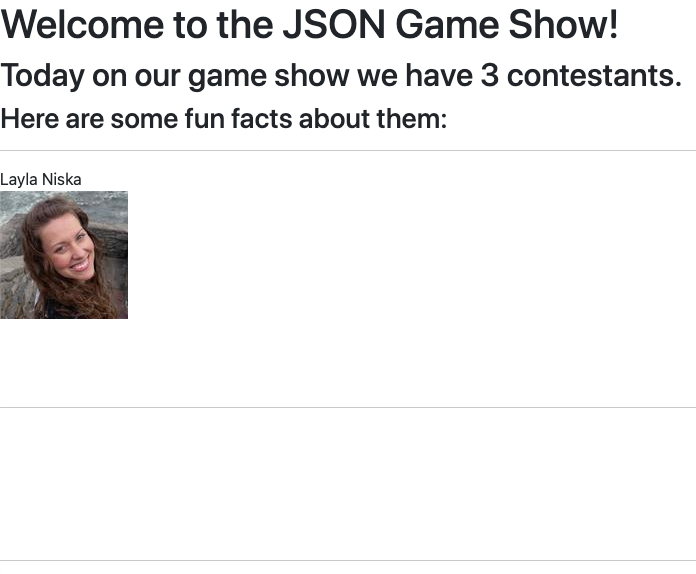
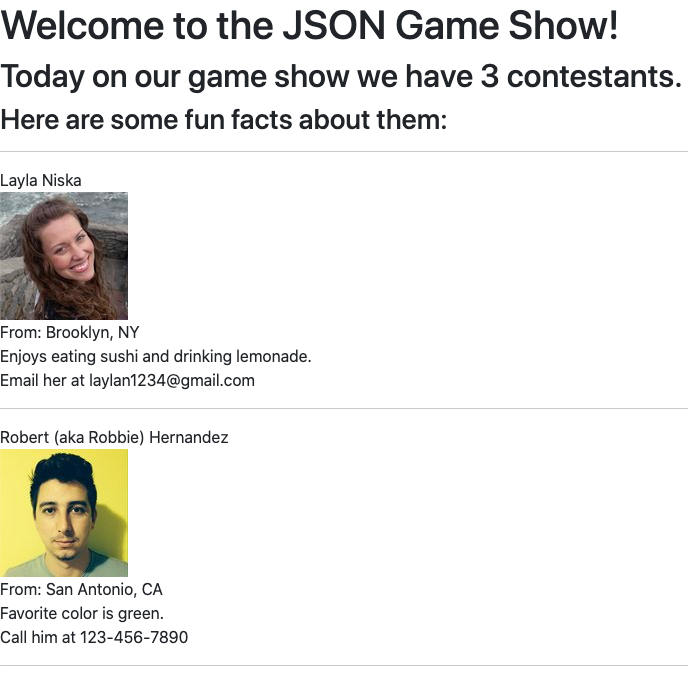
add 3 tasks

Changed region(s): [[0.0, 0.0, 1.0, 0.5923], [0.0, 0.622, 0.3358, 0.9774]]

diff --git a/index.html b/index.html
@@ -12,14 +12,14 @@
             
         </style>
         
-        <title>Title</title>
+        <title>Objects Coding Challenge</title>
     </head>
     <body>
         <!-- HTML -->
         
         
         <script src="https://cdn.jsdelivr.net/npm/bootstrap@5.0.0-beta1/dist/js/bootstrap.bundle.min.js"></script>
-        <script src="script.js"></script>
+        <script src="script-done.js"></script>
         <script>
             // JS
             

diff --git a/README.md b/README.md
@@ -1,5 +1,67 @@
 # Objects Coding Challenge
 
+## Task 0: Before you begin
+
 Here is what you are starting with:
 
+<img src="img/objects-cc-00.png">
+
+As you can see, there's not much there yet!
+
+But before you move on to Task 1, observe the starter code and study how it produces the current output.
+
+## Task 1: Finish contestants A and B
+
+Let's see if we can turn it into this:
+
 <img src="img/objects-cc-01.png">
+
+For this task, you should _only_ be modifying the `people` variable and uncommenting any `document.write()` that you want to test. 
+
+For example, notice this line of code:
+
+```js
+// document.write("From: " + conA.location.city + ", " + conA.location.state); // From: Brooklyn, NY
+```
+
+It's commented out because `conA.location.city` and `conA.location.state` don't exist yet.
+
+Go ahead and modify `people` so that those two properties are defined with `Brooklyn` and `NY`, as noted by the comment.
+
+When you're ready, uncomment the `document.write()` to see it in action!
+
+Repeat this process until your code produces a result matching the screenshot above.
+
+## Task 2: Make sure the properties are thorough
+
+Notice how we have these two lines of code:
+
+```js
+var conA = people[0];
+var conB = people[1];
+```
+
+This allows us to quickly and easily change the contestants around, but keep which fun facts we want to display. Go ahead and swap the `1` to `0` so that it looks like this:
+
+```js
+var conA = people[1];
+var conB = people[0];
+```
+
+Ideally, your preview would now looks something like this:
+
+<img src="img/objects-cc-02.png">
+
+But it probably doesn't. Why not? Because as we construct our data, we want to make sure it's thorough. For example, if **Robert** has a nickname, we need to make sure **Layla** has one too, just in case it gets used. Essentially, our properties should (generally) be consistent from object to object.
+
+Go ahead and update your `people` variable so that you have consistent properties and the preview matches the screenshot above.
+
+## Task 3: Make a third contestant!
+
+You heard me. You'll have to add:
+* to your `people` array
+* some `document.write()`s
+
+For the image, choose any number up to `99` from the `men` or `women`.
+
+Have fun with this one. Feel free to make up random "facts"!
